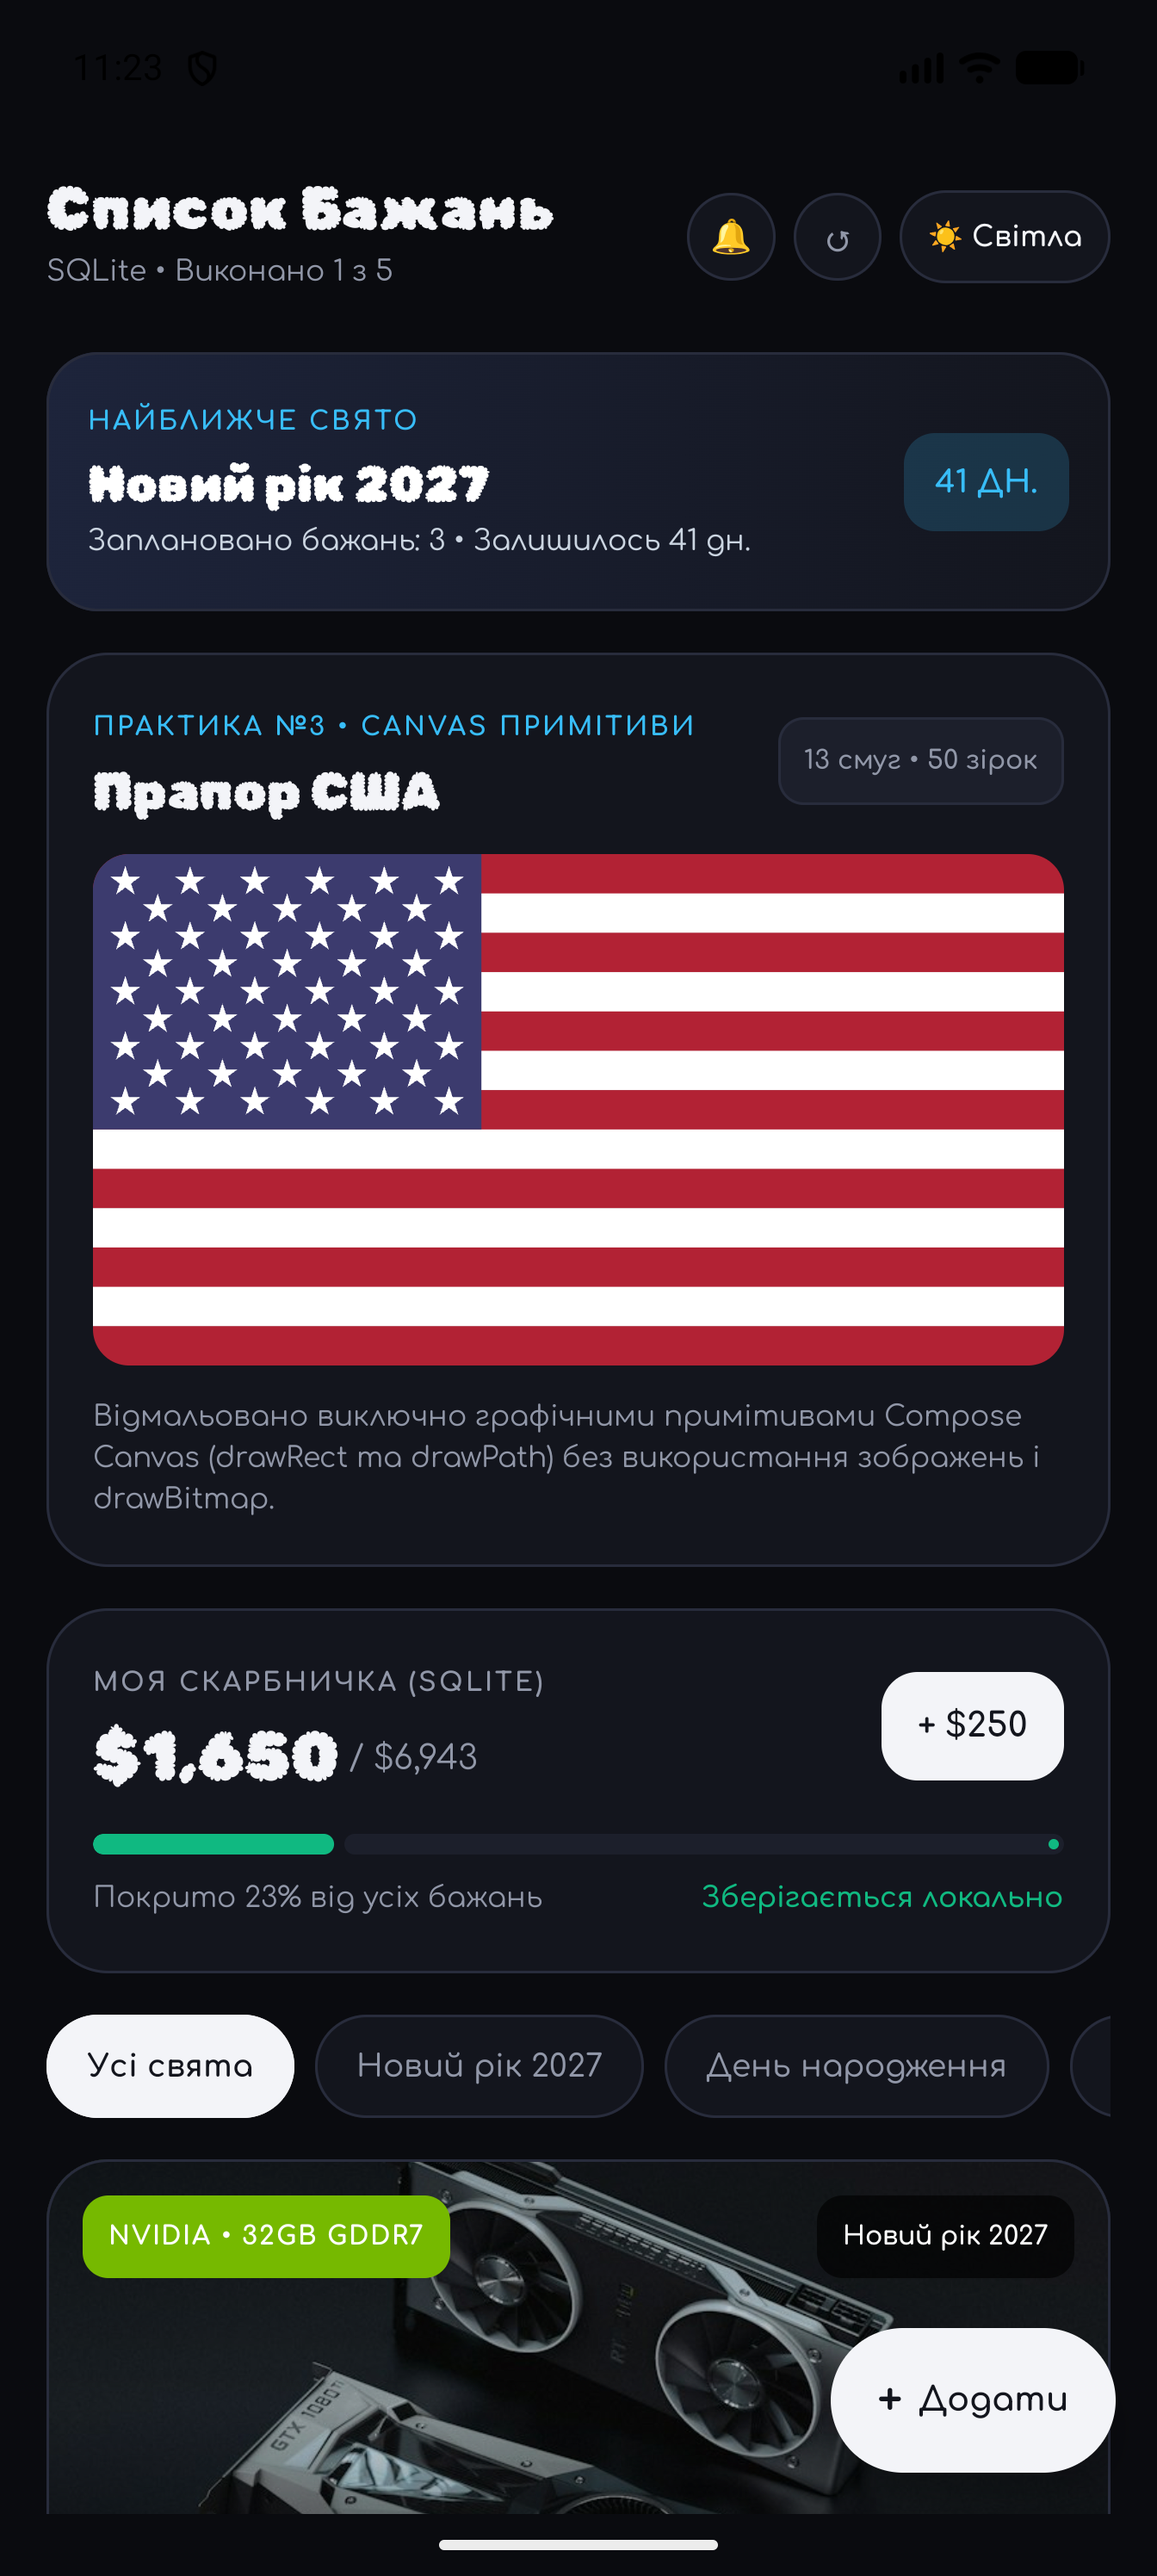
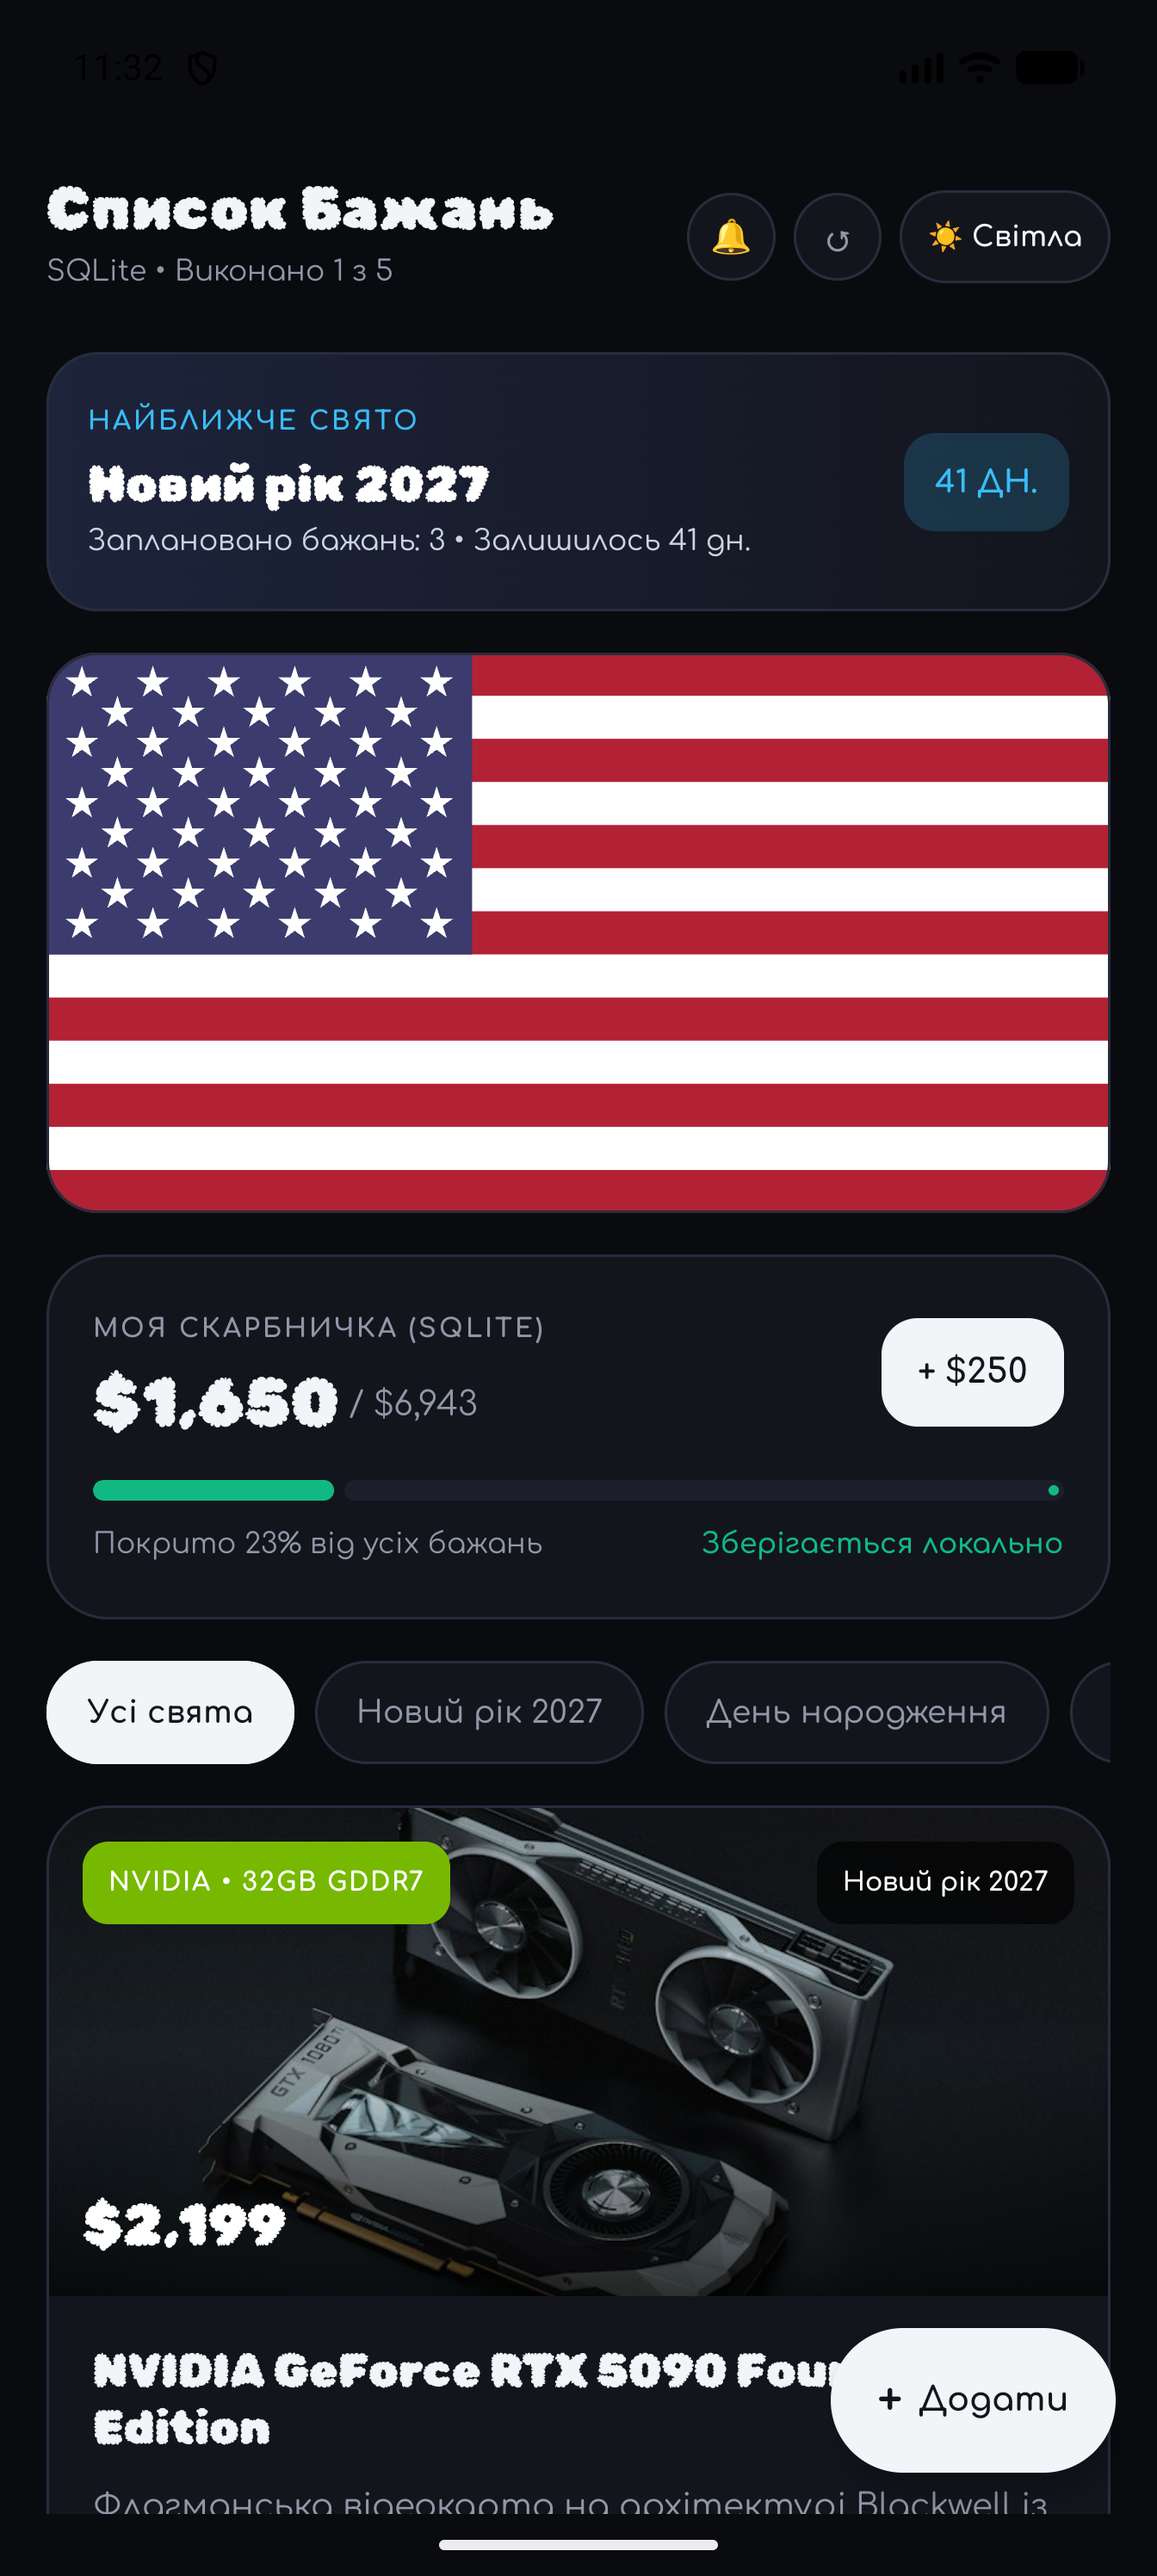
refactor: remove text labels from USA flag card leaving only the flag

diff --git a/app/src/main/java/dev/project/app3/MainActivity.kt b/app/src/main/java/dev/project/app3/MainActivity.kt
@@ -1904,69 +1904,17 @@ private fun buildStarPath(
 @Composable
 fun UsaFlagCard(palette: WishPalette) {
     Surface(
-        shape = RoundedCornerShape(24.dp),
+        shape = RoundedCornerShape(20.dp),
         color = palette.surface,
         border = BorderStroke(1.dp, palette.border),
         modifier = Modifier.fillMaxWidth()
     ) {
-        Column(
-            modifier = Modifier.padding(18.dp),
-            verticalArrangement = Arrangement.spacedBy(12.dp)
-        ) {
-            Row(
-                modifier = Modifier.fillMaxWidth(),
-                horizontalArrangement = Arrangement.SpaceBetween,
-                verticalAlignment = Alignment.CenterVertically
-            ) {
-                Column(modifier = Modifier.weight(1f)) {
-                    Text(
-                        text = "ПРАКТИКА №3 • CANVAS ПРИМІТИВИ",
-                        color = Color(0xFF38BDF8),
-                        fontFamily = GoogleBodyFontFamily,
-                        fontSize = 10.sp,
-                        fontWeight = FontWeight.Bold,
-                        letterSpacing = 1.sp
-                    )
-                    Spacer(modifier = Modifier.height(2.dp))
-                    Text(
-                        text = "Прапор США",
-                        color = palette.textPrimary,
-                        fontFamily = ToyStoryFontFamily,
-                        fontSize = 20.sp
-                    )
-                }
-
-                Surface(
-                    color = palette.surfaceVariant,
-                    shape = RoundedCornerShape(10.dp),
-                    border = BorderStroke(1.dp, palette.border)
-                ) {
-                    Text(
-                        text = "13 смуг • 50 зірок",
-                        color = palette.textSecondary,
-                        fontFamily = GoogleBodyFontFamily,
-                        fontSize = 10.sp,
-                        fontWeight = FontWeight.SemiBold,
-                        modifier = Modifier.padding(horizontal = 10.dp, vertical = 6.dp)
-                    )
-                }
-            }
-
-            UsaFlagCanvas(
-                modifier = Modifier
-                    .fillMaxWidth()
-                    .aspectRatio(1.9f)
-                    .clip(RoundedCornerShape(14.dp))
-            )
-
-            Text(
-                text = "Відмальовано виключно графічними примітивами Compose Canvas (drawRect та drawPath) без використання зображень і drawBitmap.",
-                color = palette.textSecondary,
-                fontFamily = GoogleBodyFontFamily,
-                fontSize = 11.sp,
-                lineHeight = 16.sp
-            )
-        }
+        UsaFlagCanvas(
+            modifier = Modifier
+                .fillMaxWidth()
+                .aspectRatio(1.9f)
+                .clip(RoundedCornerShape(20.dp))
+        )
     }
 }
 
